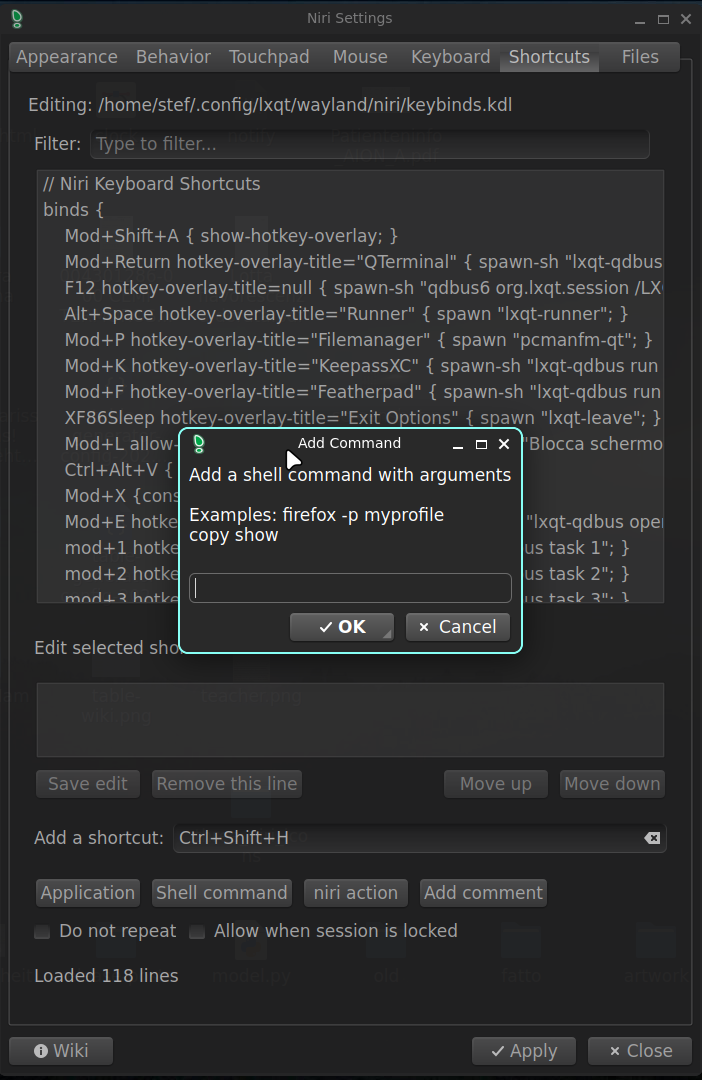
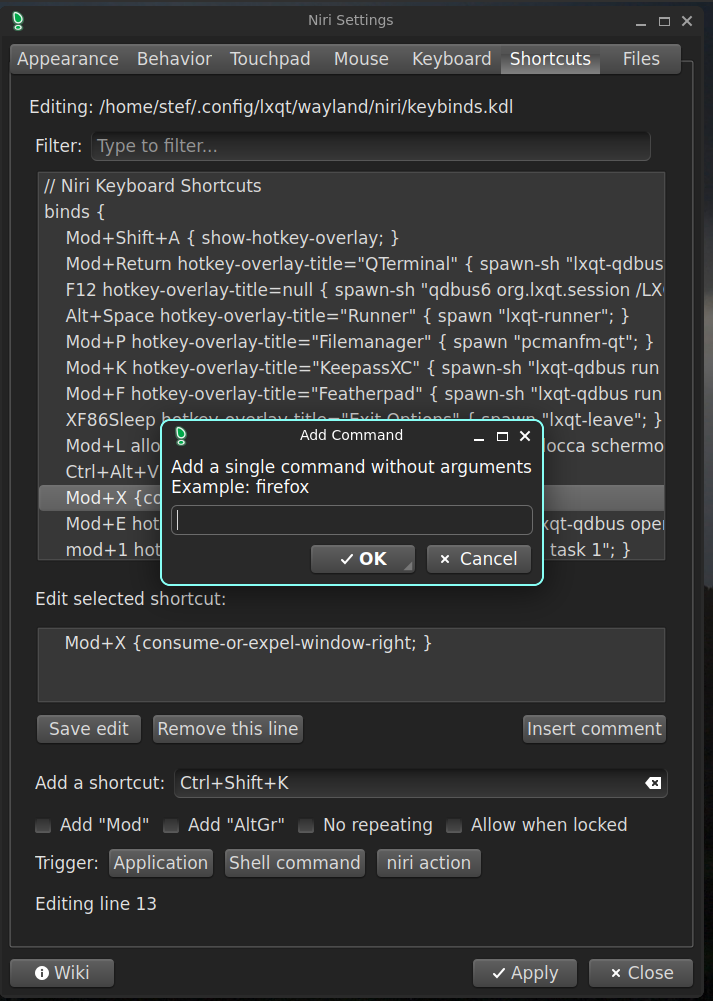
Improved adding comments

diff --git a/ui/keybinds_tab.py b/ui/keybinds_tab.py
@@ -138,9 +138,9 @@ class KeybindsFileEditor(QWidget):
         add_button_layout.addWidget(self.add_action_btn)
         add_button_layout.addStretch()
 
-        self.add_comment_btn = QPushButton(self.tr("Add as comment"))
+        self.add_comment_btn = QPushButton(self.tr("Insert comment"))
         self.add_comment_btn.clicked.connect(self.add_comment)
-        self.add_comment_btn.setEnabled(True)
+        self.add_comment_btn.setEnabled(False)
         button_layout.addWidget(self.add_comment_btn)
 
         self.stored_key = ""
@@ -273,6 +273,7 @@ class KeybindsFileEditor(QWidget):
         original_text = self.lines[self.selected_index].rstrip('\n')
         self.text_edit.setPlainText(original_text)
         self.save_btn.setEnabled(True)
+        self.add_comment_btn.setEnabled(True)
         self.remove_btn.setEnabled(True)
         self.status_label.setText(f"Editing line {self.selected_index + 1}")
 
@@ -327,7 +328,7 @@ class KeybindsFileEditor(QWidget):
         new_line, ok = QInputDialog.getText(
             self,
             "Add Command",
-            "Add a single command without arguments\nExample: firefox",
+            "Add a single command without arguments\nExample: firefox" ,
             QLineEdit.EchoMode.Normal,
             ""
         )
@@ -341,7 +342,7 @@ class KeybindsFileEditor(QWidget):
                 new_line = f"    {self.mod}{self.mod5}{self.xkbcommon_key} {self.allow_locked} {self.repeat_false} {{ {command} ; }}\n"
 
             try:
-                # Find the last line (should be "}")
+                # Find the last line (should be "}") #FIXME add at current index if there is
                 last_line_index = len(self.lines) - 1
 
                 # Insert before the last line
@@ -383,7 +384,8 @@ class KeybindsFileEditor(QWidget):
 
             try:
                 last_line_index = len(self.lines) - 1
-                self.lines.insert(last_line_index, new_line)
+                self.lines.insert(last_line_index, new_text, new_line)
+
 
                 with open(self.filename, 'w') as file:
                     file.writelines(self.lines)
@@ -402,37 +404,38 @@ class KeybindsFileEditor(QWidget):
                 self.status_label.setText(f"Error adding shell command: {str(e)}")
 
     def add_comment(self):
-        new_line, ok = QInputDialog.getText(
-            self,
-            "Add a comment",
-            "Add a comment:",
-            QLineEdit.EchoMode.Normal,
-            ""
-        )
+        if hasattr(self, 'selected_index'):
+            comment, ok = QInputDialog.getText(
+                self,
+                "Add a comment",
+                "Add a comment for this keybind:",
+                QLineEdit.EchoMode.Normal,
+                ""
+            )
 
-        if ok and new_line:
+            if ok and comment:
+                comment_to_add = f"    // {comment}\n"
+                self.lines.insert(self.selected_index, comment_to_add)
 
-            new_line = f"    // {new_line}\n"
+                try:
+                    with open(self.filename, 'w') as file:
+                        file.writelines(self.lines)
 
-            try:
-                last_line_index = len(self.lines) - 1
-                self.lines.insert(last_line_index, new_line)
+                    # Update the list display
+                     #if self.filter_input.comment():
+#                        self.filter_lines()
 
-                with open(self.filename, 'w') as file:
-                    file.writelines(self.lines)
+                    #display_text = comment_to_add
+                    self.filter_input.text()
+                    self.filter_lines()
+                    #self.filter_lines(comment)
+                    #self.list_widget.item(self.selected_index).setText(display_text)
 
-                self.update_list_display()
+                    self.status_label.setText(f"New comment saved at line {self.selected_index + 1}")
 
-                new_index = last_line_index
-                self.list_widget.setCurrentRow(new_index)
 
-                self.text_edit.setPlainText(new_line.rstrip('\n'))
-                self.save_btn.setEnabled(True)
-
-                self.status_label.setText(f"Added new shell keybind at line {new_index + 1}")
-
-            except Exception as e:
-                self.status_label.setText(f"Error adding shell command: {str(e)}")
+                except Exception as e:
+                    self.status_label.setText(f"Error saving file: {str(e)}")
 
     def add_niri_action(self):
         new_line, ok = QInputDialog.getText(

diff --git a/README.md b/README.md
@@ -59,8 +59,7 @@ A `PKGBUILD` is added now for arch and derivatives users.
 
 ## Shortcut editor
 
-![screenshot of the shortcut editor](editor.png)
-
+![screenshot of the niri shortcut editor](editor.png)
 
 By default `keybinds.kdl` is used, again in relative paths both for LXQt and pure niri. It will be created and
 added to the default configuration when applying changes with the "Apply" button. Existing shortcuts can be moved there. Backup your files.
@@ -83,7 +82,7 @@ If you have an allergy, please be aware.
 * Get feedback and testing
 * Improve parsing regex
 * Add install script for local install
-* Default column width settings
-* Add shortcut at position instead at the end
+* Add Default column width settings, corner rounding yes|no, else ?
+* Add new shortcut at position instead at the end
 
 * Submit to AUR.
